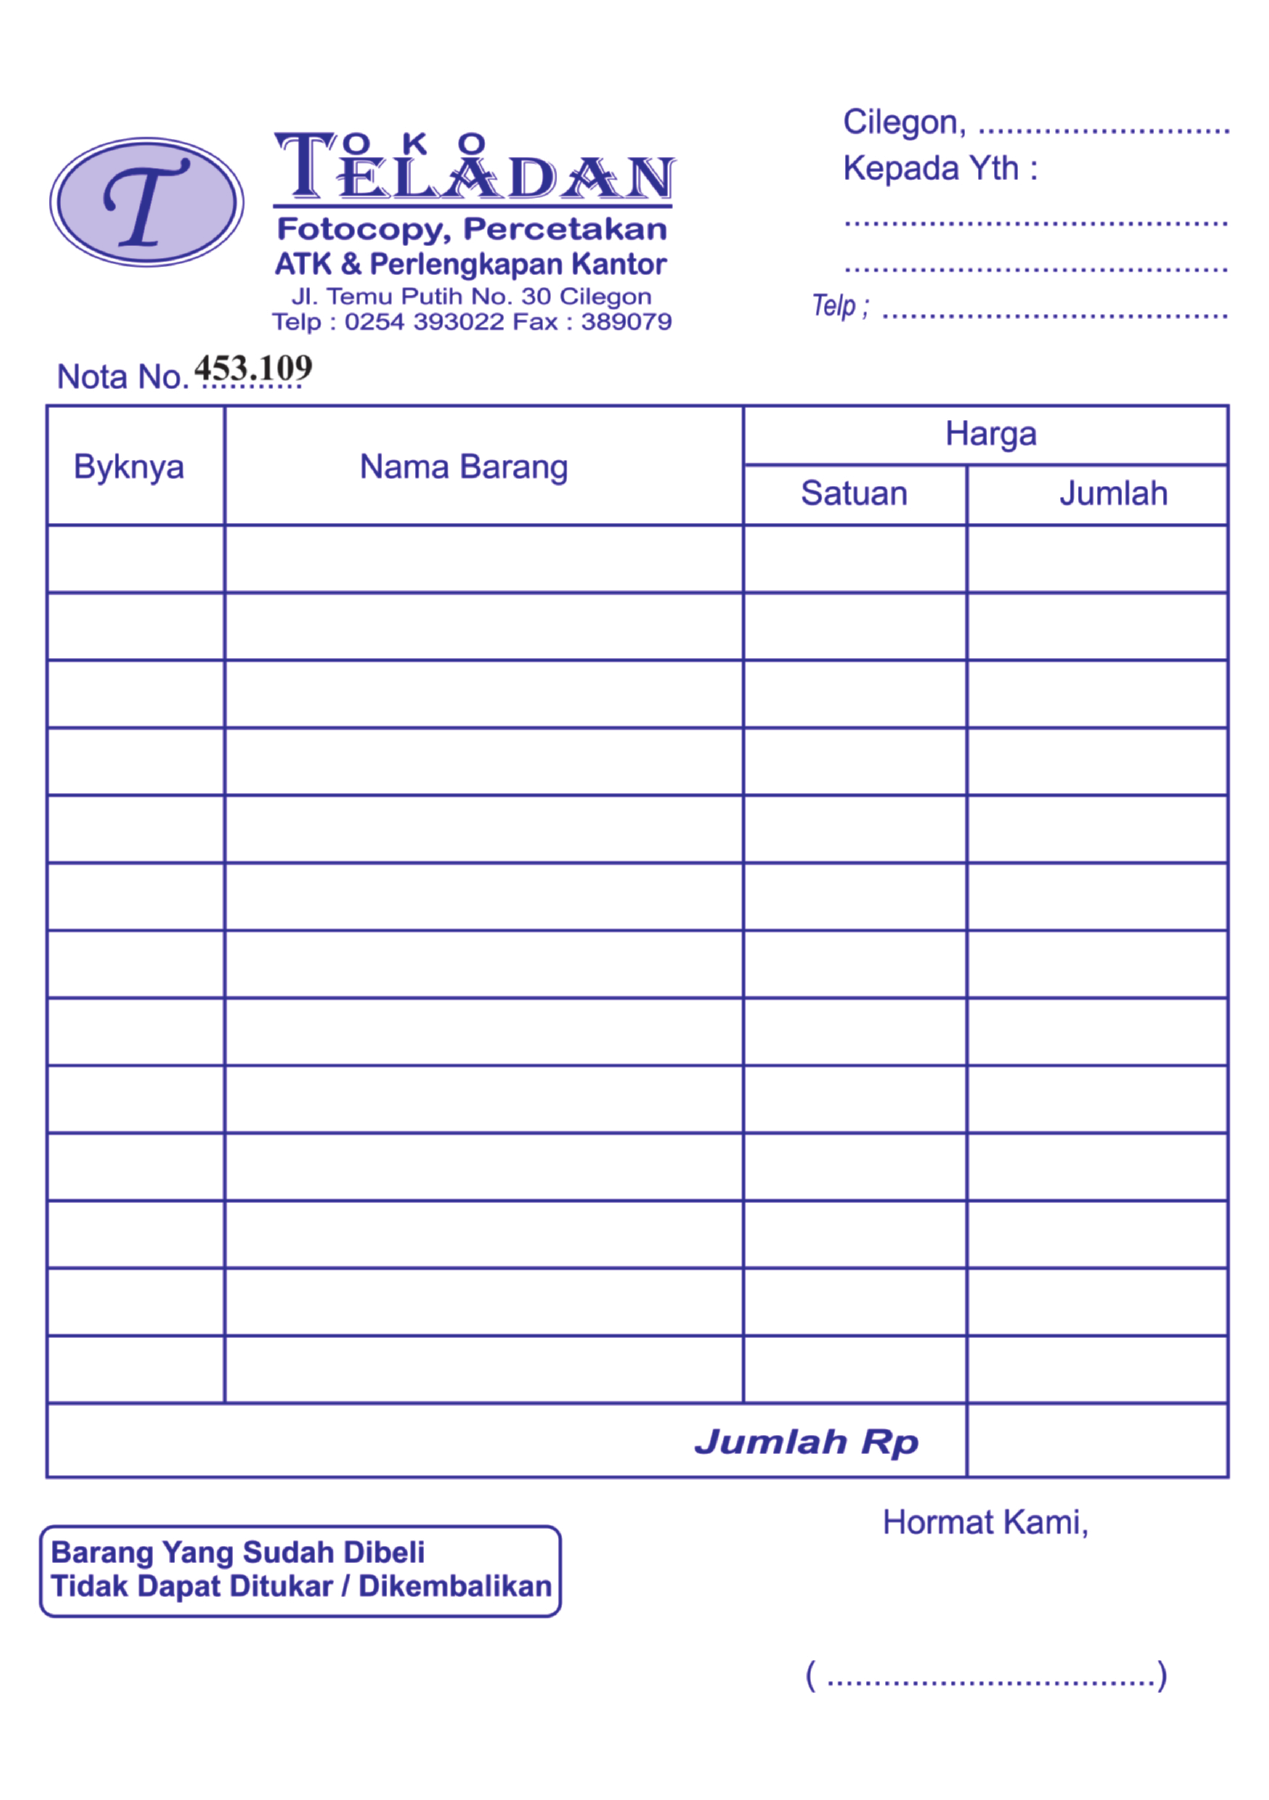
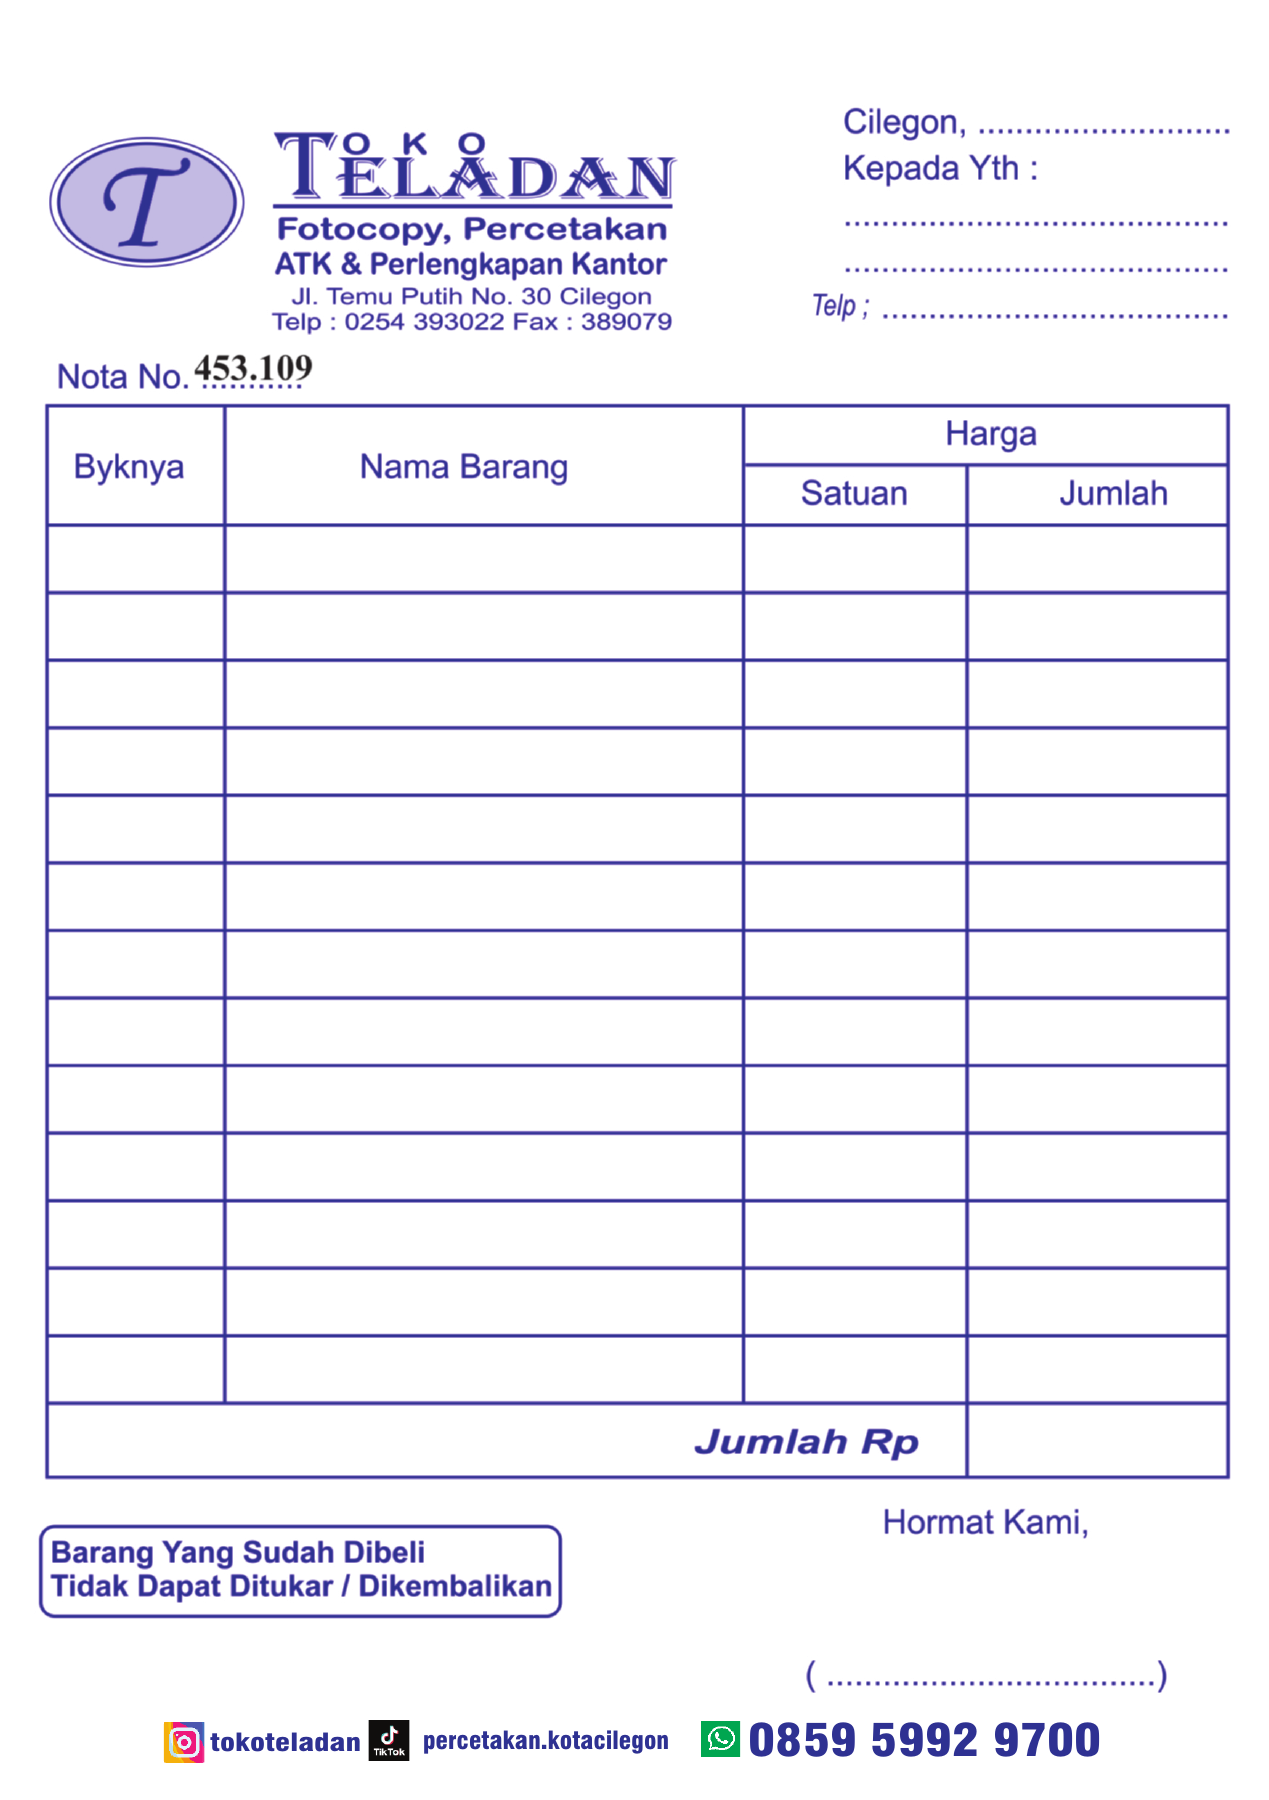
fix(printing-receipts): tambahkan kontak medsos pada nota A5

Changed region(s): [[0.5532, 0.9333, 0.8605, 0.9956], [0.1229, 0.9333, 0.5225, 0.9956]]

diff --git a/apps/web/features/printing-receipts/__tests__/social-footer.test.ts b/apps/web/features/printing-receipts/__tests__/social-footer.test.ts
@@ -1,0 +1,22 @@
+import { resolve } from "node:path";
+import sharp from "sharp";
+import { describe, expect, it } from "vitest";
+import { getPrintingReceiptLayout } from "../layout";
+
+describe("printing receipt contact footer", () => {
+  it("reuses the Spanduk social media strip below the A5 signature", async () => {
+    const template = (category: "PERCETAKAN" | "SPANDUK") =>
+      sharp(resolve("public", getPrintingReceiptLayout(category).artwork.slice(1)));
+    const strip = { width: 946, height: 46 };
+    const a5 = template("PERCETAKAN");
+    const spanduk = template("SPANDUK");
+    const { width, height } = await a5.metadata();
+    expect({ width, height }).toEqual({ width: 1269, height: 1800 });
+
+    const expected = await spanduk.extract({ left: 786, top: 842, ...strip }).removeAlpha().raw().toBuffer();
+    const left = Math.floor((width - strip.width) / 2);
+    const footer = await a5.extract({ left, top: 1719, ...strip }).removeAlpha().raw().toBuffer();
+
+    expect(footer.equals(expected)).toBe(true);
+  });
+});
